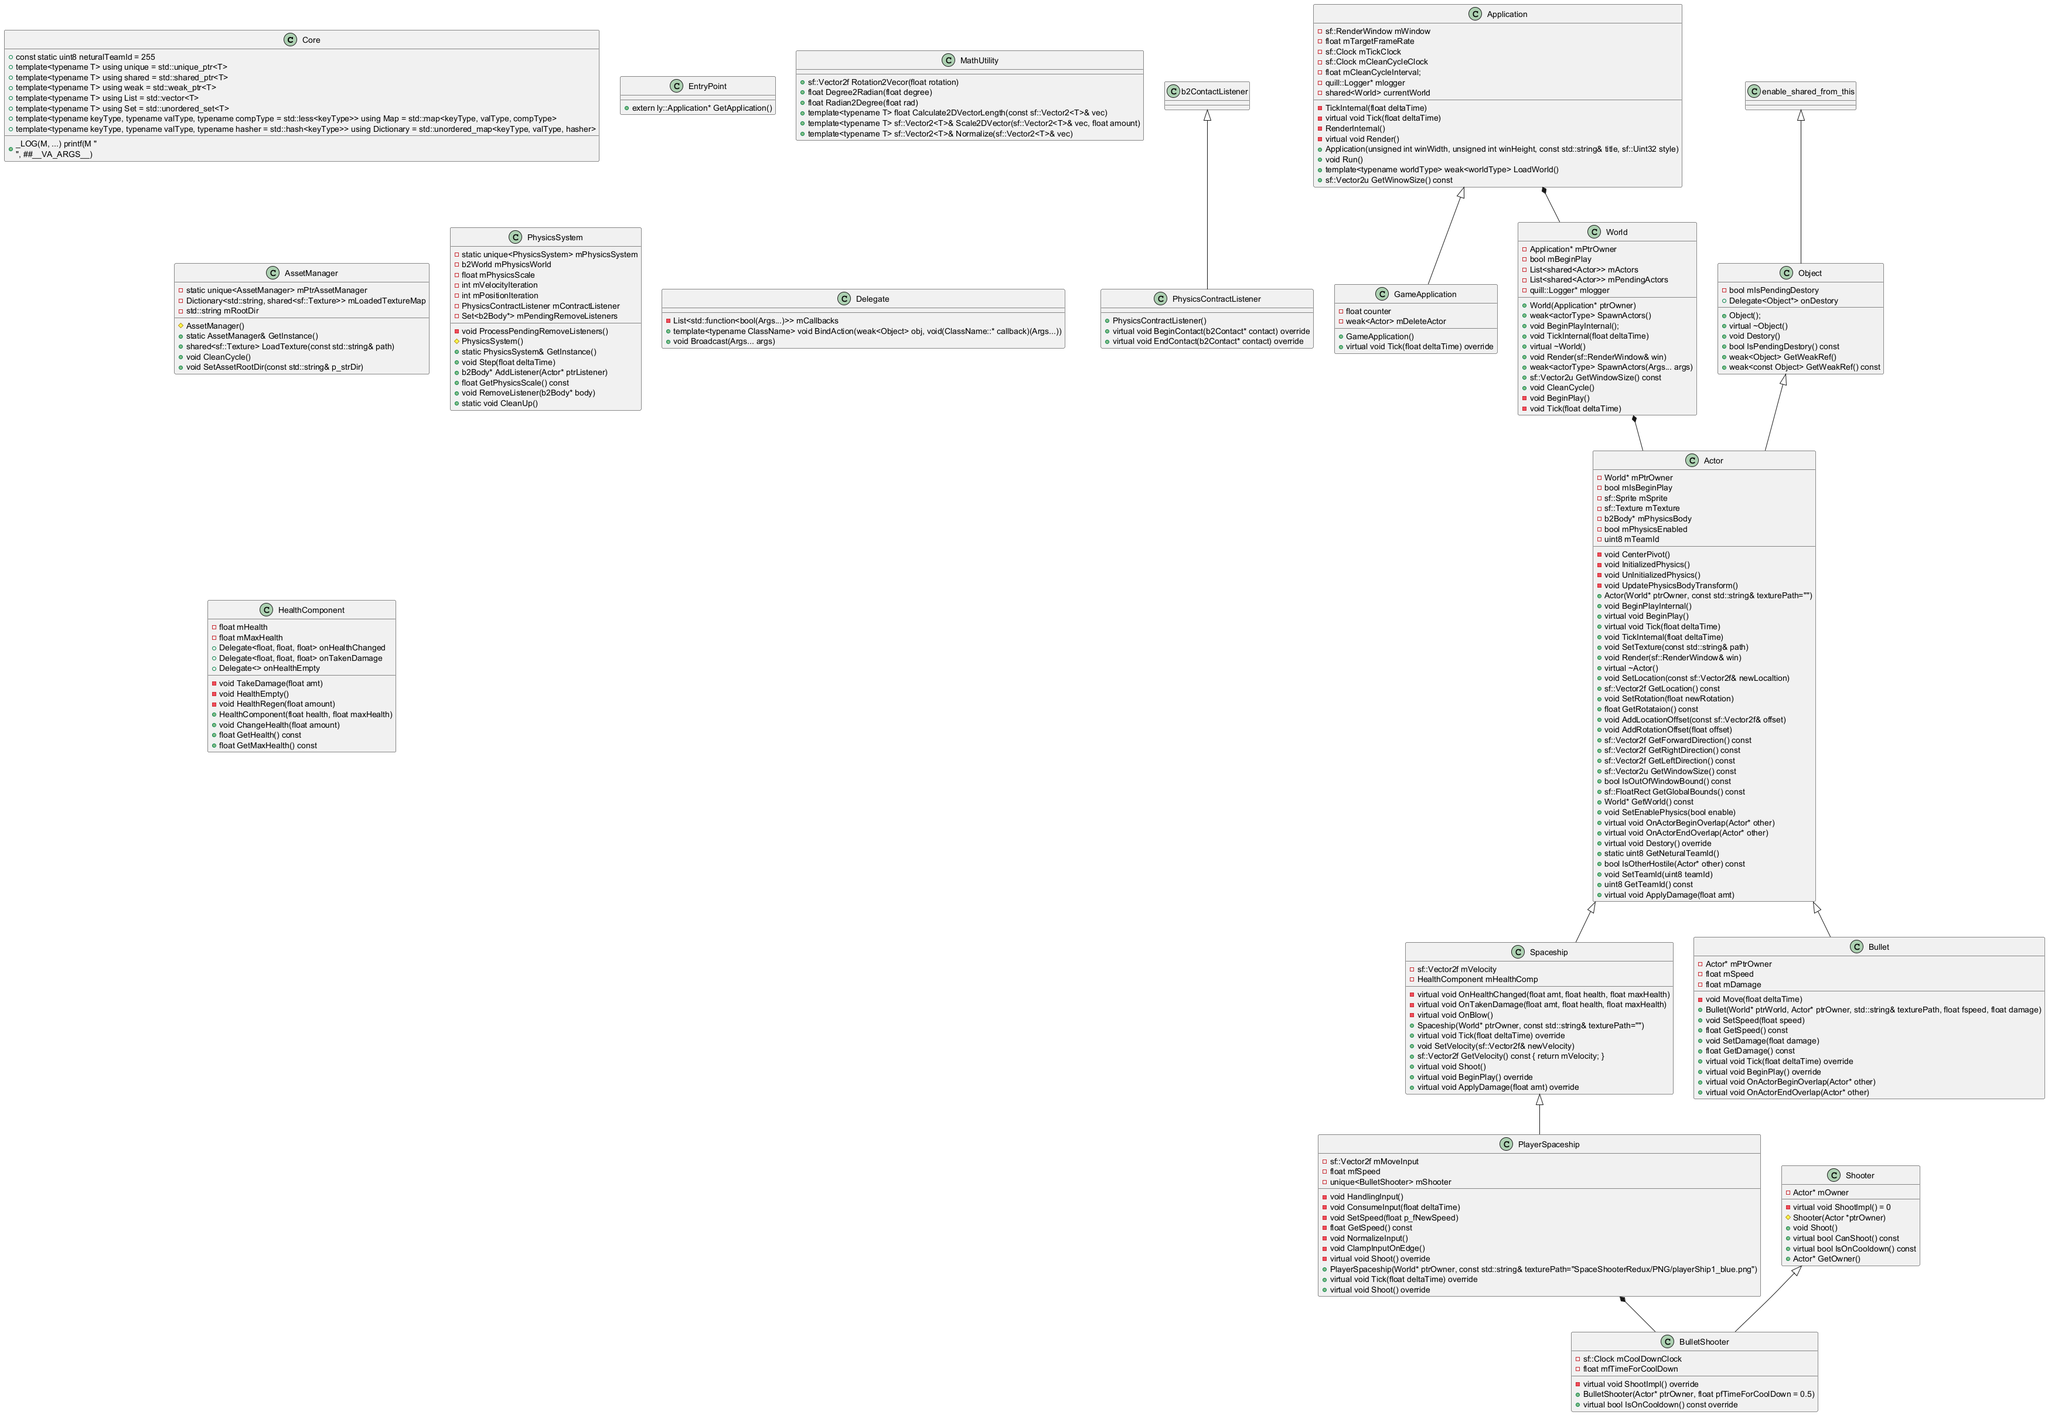
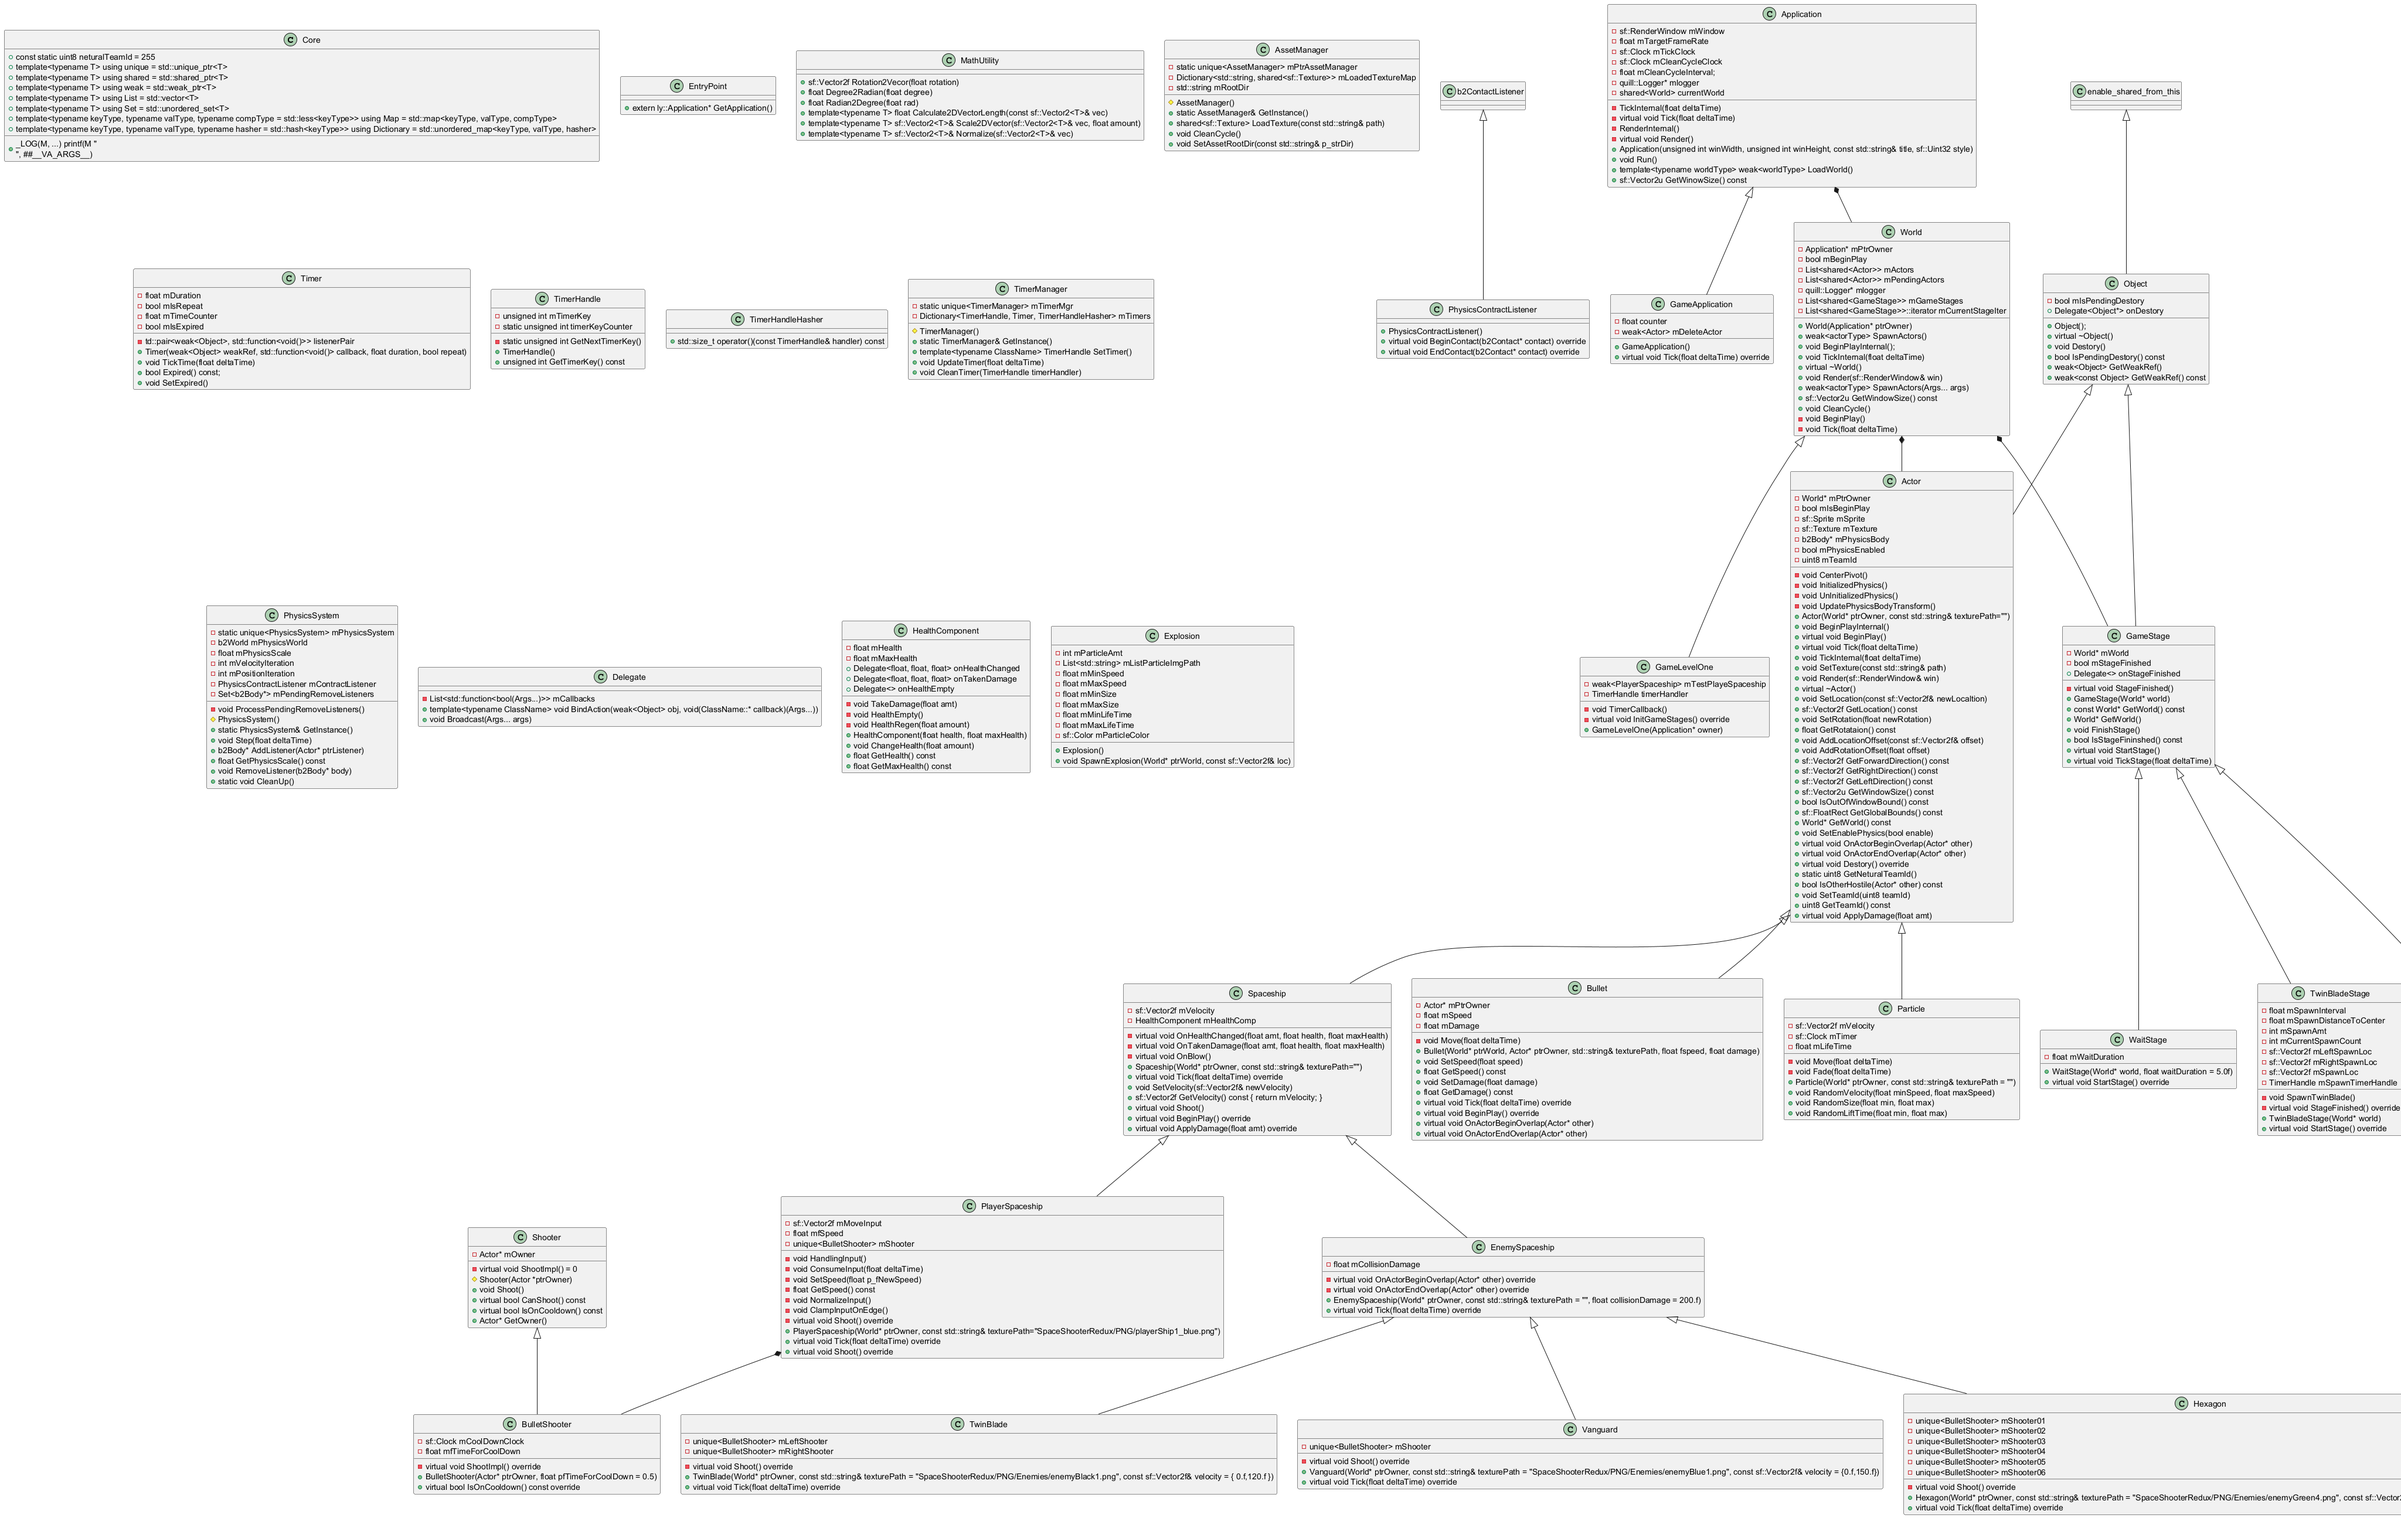
1) Add Hexagon enemy class 2) Remark:bullet unable to set rotation

diff --git a/game/src/Enemy/Hexagon.cpp b/game/src/Enemy/Hexagon.cpp
@@ -1,0 +1,30 @@
+#include "Enemy/Hexagon.h"
+#include "weapon/BulletShooter.h"
+
+ly::Hexagon::Hexagon(World* ptrOwner, const std::string& texturePath, const sf::Vector2f& velocity)
+	:EnemySpaceship{ ptrOwner, texturePath },
+	mShooter01{ new BulletShooter{this, 1.f, {20.f, 50.f}, 30.f }},
+	mShooter02{ new BulletShooter{this, 1.f, {20.f, -50.f}, -30.f } },
+	mShooter03{ new BulletShooter{this, 1.f, {50.f, 0.f}}},
+	mShooter04{ new BulletShooter{this, 1.f, {-50.f, 0.f}, -180.f } },
+	mShooter05{ new BulletShooter{this, 1.f, {-20.f, 50.f}, -120.f } },
+	mShooter06{ new BulletShooter{this, 1.f, {-20.f, -50.f}, 120.f } }
+{
+	SetVelocity(velocity);
+}
+
+void ly::Hexagon::Tick(float deltaTime)
+{
+	EnemySpaceship::Tick(deltaTime);
+	Shoot();
+}
+
+void ly::Hexagon::Shoot()
+{
+	mShooter01->Shoot();
+	mShooter02->Shoot();
+	mShooter03->Shoot();
+	mShooter04->Shoot();
+	mShooter05->Shoot();
+	mShooter06->Shoot();
+}

diff --git a/game/src/Enemy/VanguardStage.cpp b/game/src/Enemy/VanguardStage.cpp
@@ -2,6 +2,7 @@
 #include "framework/World.h"
 #include "Enemy/Vanguard.h"
 #include "Enemy/TwinBlade.h"
+#include "Enemy/Hexagon.h"
 
 ly::VanguardStage::VanguardStage(World* world)
 	: GameStage{ world },
@@ -36,8 +37,8 @@ void ly::VanguardStage::StageFinished()
 
 void ly::VanguardStage::SpawnVanguard()
 {
-	weak<Vanguard> newVanguard = GetWorld()->SpawnActors<Vanguard>();
-	//weak<TwinBlade> newVanguard = GetWorld()->SpawnActors<TwinBlade>();
+	//weak<Vanguard> newVanguard = GetWorld()->SpawnActors<Vanguard>();
+	weak<Hexagon> newVanguard = GetWorld()->SpawnActors<Hexagon>();
 	newVanguard.lock()->SetLocation(mSpawnLoc);
 	++mCurrentRowVanguardCount;
 	if (mCurrentRowVanguardCount == mVarguardsPerRow) {

diff --git a/game/include/Enemy/Hexagon.h b/game/include/Enemy/Hexagon.h
@@ -1,0 +1,21 @@
+#pragma once
+
+#include "Enemy/EnemySpaceship.h"
+
+namespace ly {
+	class BulletShooter;
+	class Hexagon : public EnemySpaceship {
+	public:
+		Hexagon(World* ptrOwner, const std::string& texturePath = "SpaceShooterRedux/PNG/Enemies/enemyGreen4.png", const sf::Vector2f& velocity = { 0.f,150.f });
+		virtual void Tick(float deltaTime) override;
+	private:
+		virtual void Shoot() override;
+	private:
+		unique<BulletShooter> mShooter01;
+		unique<BulletShooter> mShooter02;
+		unique<BulletShooter> mShooter03;
+		unique<BulletShooter> mShooter04;
+		unique<BulletShooter> mShooter05;
+		unique<BulletShooter> mShooter06;
+	};
+}

diff --git a/game/src/weapon/BulletShooter.cpp b/game/src/weapon/BulletShooter.cpp
@@ -41,6 +41,7 @@ void ly::BulletShooter::ShootImpl()
 		newBullet.lock()->SetLocation(GetOwner()->GetLocation() + ownerForwardDir * mLocalPositionOffset.x + GetOwner()->GetRightDirection() * mLocalPositionOffset.y);
 	}
 	
+
 	newBullet.lock()->SetRotation(GetOwner()->GetRotataion() + mLocalRotationOffset);
 	//newBullet.lock()->SetLocation(GetOwner()->GetLocation());
 	//newBullet.lock()->SetRotation(GetOwner()->GetRotataion());

diff --git a/engine/src/framework/World.cpp b/engine/src/framework/World.cpp
@@ -77,8 +77,6 @@ void ly::World::TickInternal(float deltaTime)
 		mCurrentStageIter->get()->TickStage(deltaTime);
 	}
 	
-
-
 	Tick(deltaTime);
 }
 
